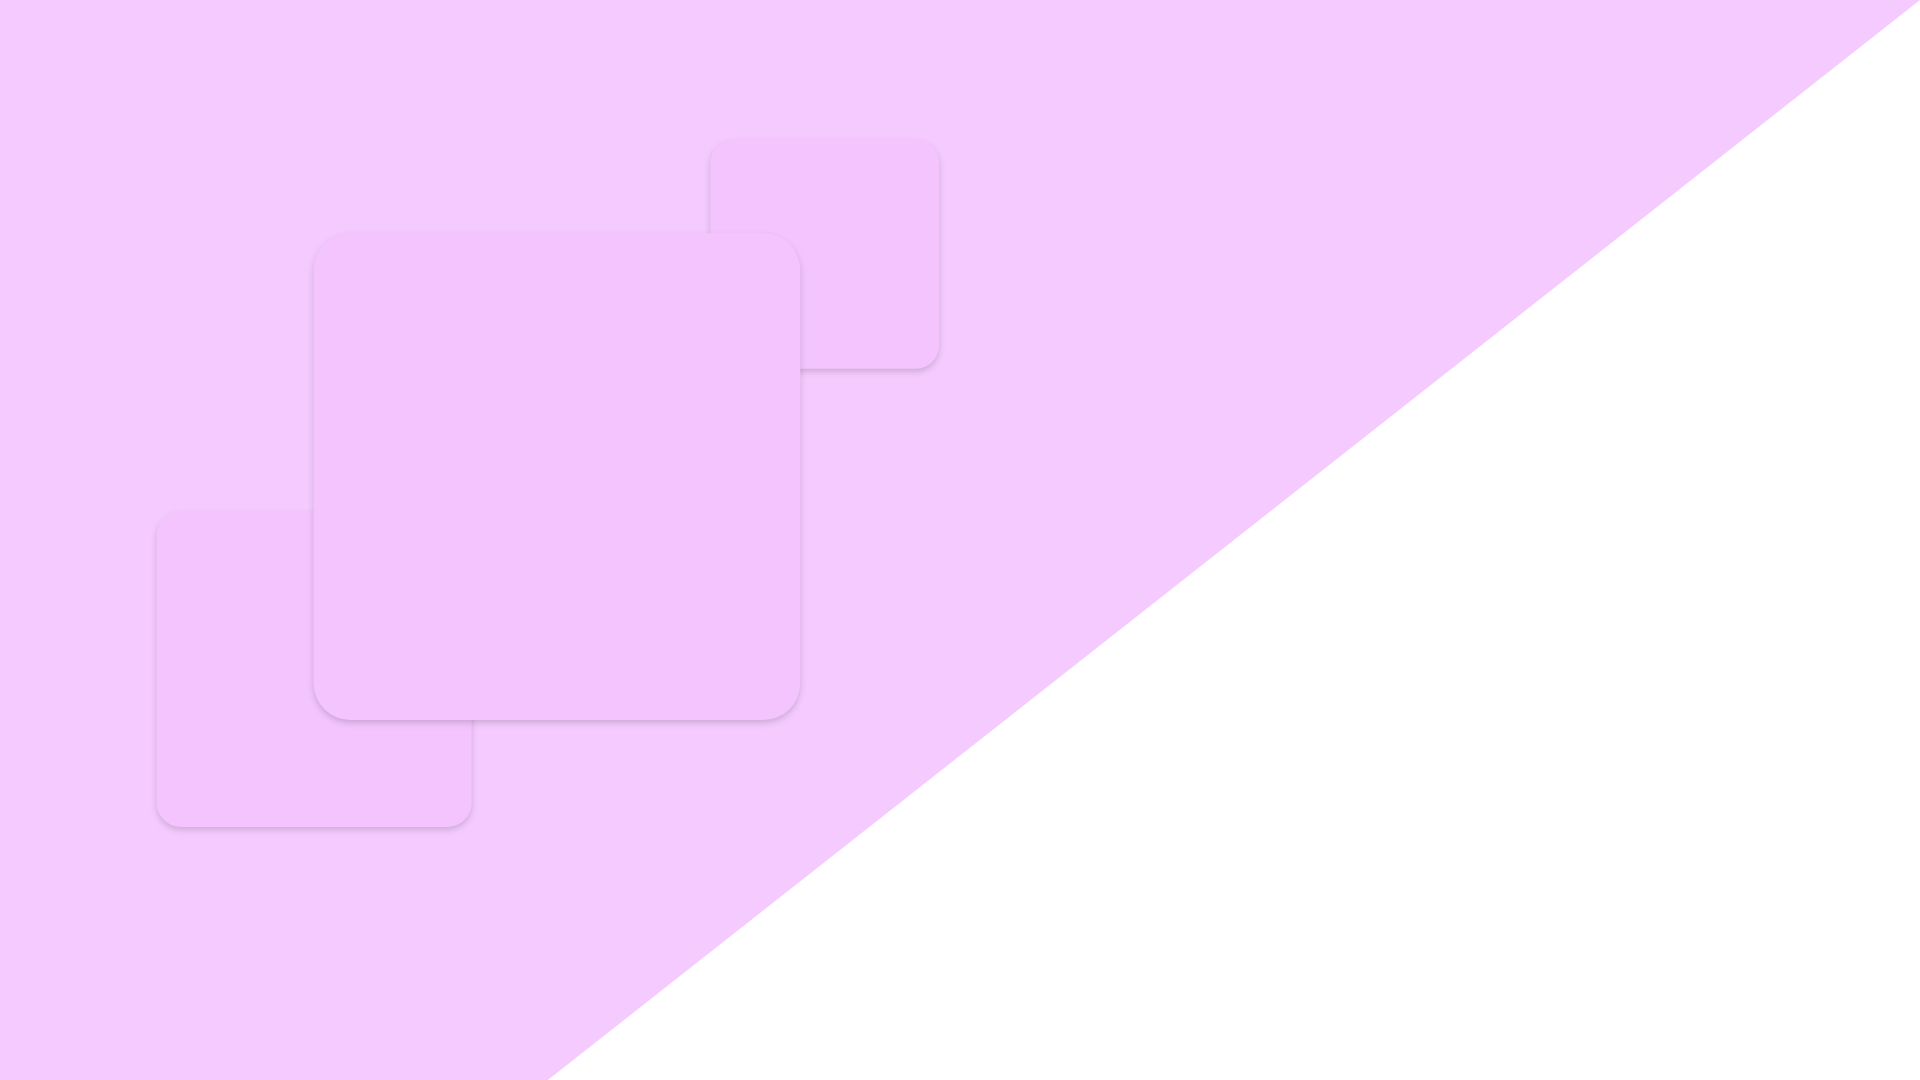
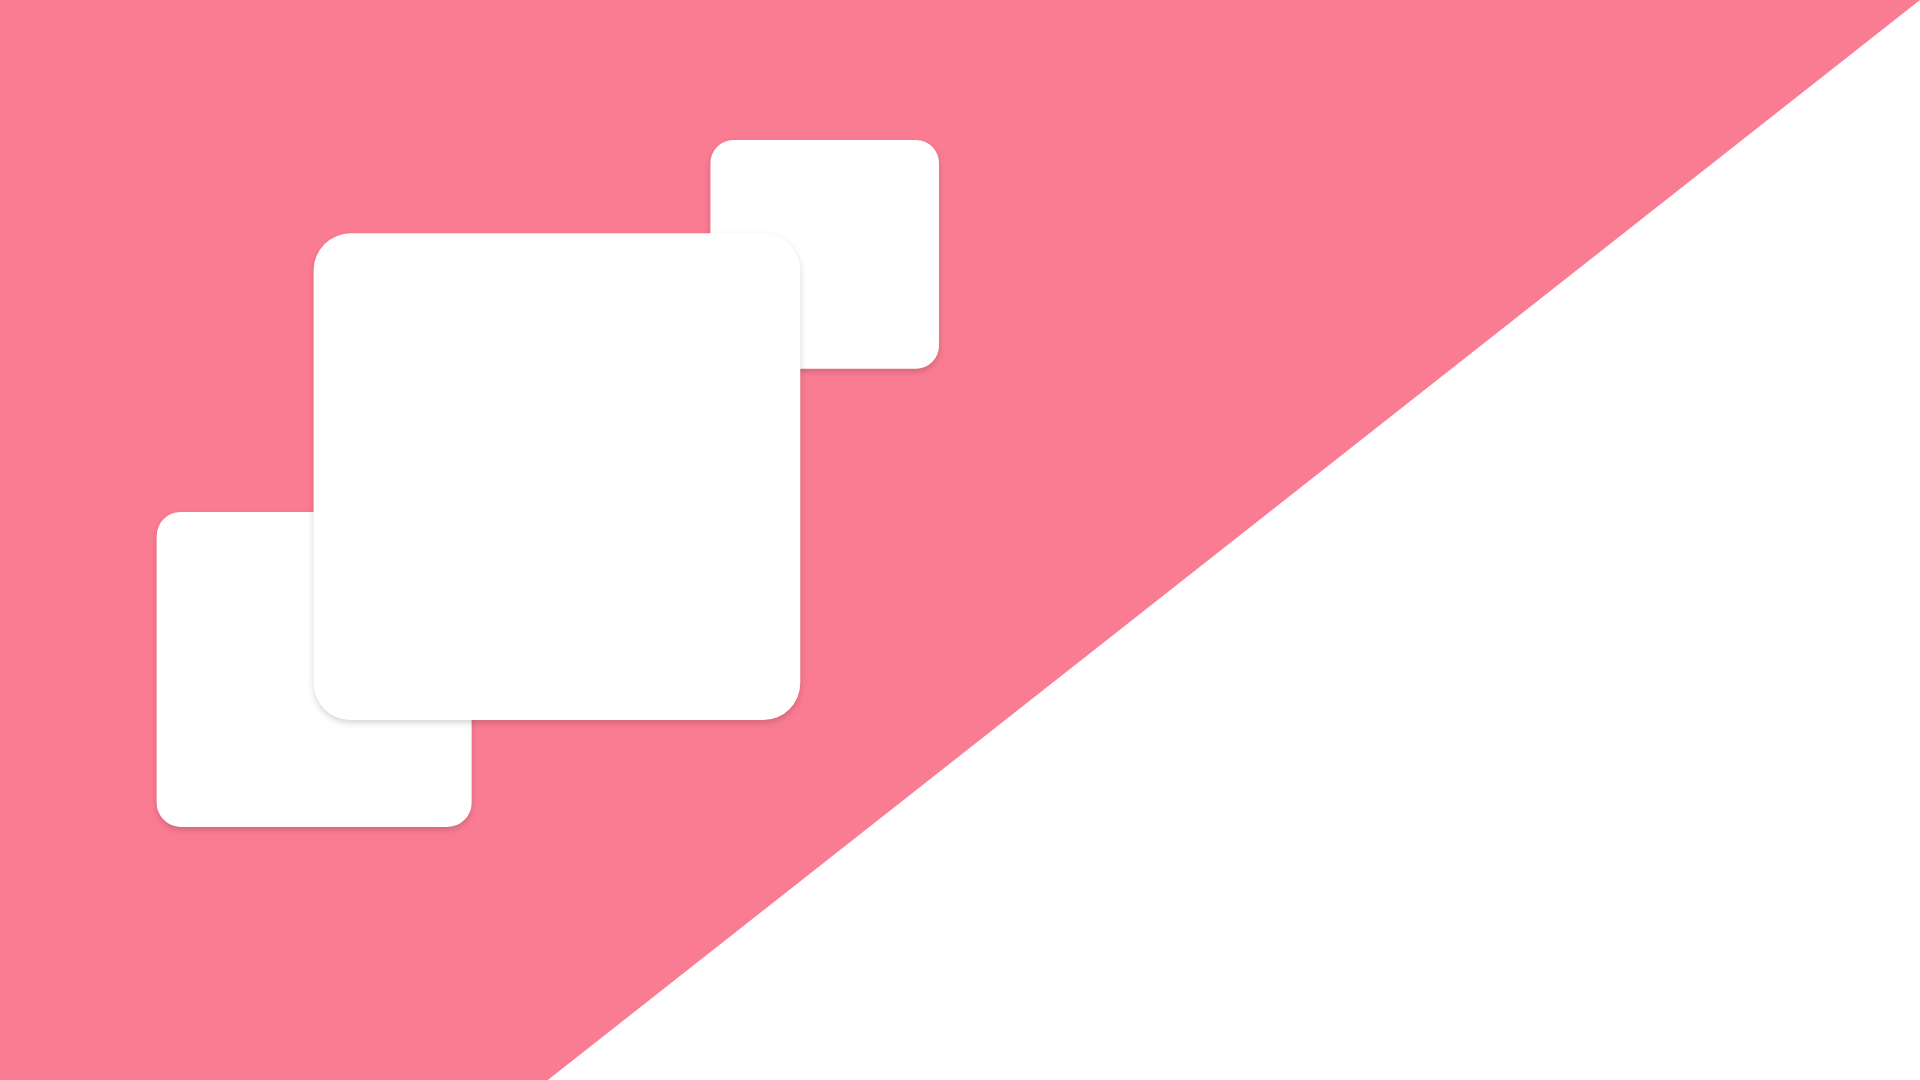
landing page 2.0

diff --git a/css/styles.css b/css/styles.css
@@ -6,7 +6,7 @@ html, body {
 }
 h1{
     font-family:'Titillium Web', sans-serif;
-    color:#F5CBFF;
+    color:#FA7C92;
     font-size:100px;
     position:relative;
 }
@@ -56,7 +56,7 @@ textarea {
 .bottom-right{
   position:fixed;
   bottom: 70px;
-  right: 10%;
+  right: 50px;
 }
 
 .shortcut {
@@ -65,7 +65,7 @@ textarea {
 
 .btn-custom {
   color: #FFFFFF;
-  background-color: #F5CBFF;
+  background-color: #FA7C92;
   border-color: #FFFFFF;
   width: 200px;
   font-family:'Titillium Web', sans-serif;
@@ -77,8 +77,8 @@ textarea {
 .btn-custom.active,
 .open .dropdown-toggle.btn-custom {
   color: #FFFFFF;
-  background-color: #F8DEFF;
-  border-color: #F8DEFF;
+  background-color: #FFD0D8;
+  border-color: #FFD0D8;
 }
 
 .btn-custom:active,
@@ -113,9 +113,9 @@ fieldset[disabled] .btn-custom.active {
 
 
 .btn-custom-outline {
-  color: #F5CBFF;
+  color: #FA7C92;
   background-color: #FFFFFF;
-  border-color: #F5CBFF;
+  border-color: #FA7C92;
   width:300px;
   font-family:'Titillium Web', sans-serif;
 }
@@ -125,9 +125,9 @@ fieldset[disabled] .btn-custom.active {
 .btn-custom-outline:active,
 .btn-custom-outline.active,
 .open .dropdown-toggle.btn-custom-outline {
-  color: #F5CBFF;
-  background-color: #F8DEFF;
-  border-color: #F5CBFF;
+  color: #FFFFFF;
+  background-color: #FFD0D8;
+  border-color: #FA7C92;
 }
 
 .btn-custom-outline:active,

diff --git a/landing_page.html b/landing_page.html
@@ -9,10 +9,9 @@
 
     <!-- Bootstrap -->
     <link rel="stylesheet" href="https://stackpath.bootstrapcdn.com/bootstrap/4.1.3/css/bootstrap.min.css" integrity="sha384-MCw98/SFnGE8fJT3GXwEOngsV7Zt27NXFoaoApmYm81iuXoPkFOJwJ8ERdknLPMO" crossorigin="anonymous">
-    <link href="libs/font-awesome/css/font-awesome.min.css" rel="stylesheet">
     <link href="https://fonts.googleapis.com/css?family=Titillium+Web" rel="stylesheet">
 
-    <link href="css/app.css" rel="stylesheet">
+    <link href="css/styles.css" rel="stylesheet">
     <!-- test -->
     <!-- HTML5 shim and Respond.js for IE8 support of HTML5 elements and media queries -->
     <!-- WARNING: Respond.js doesn't work if you view the page via file:// -->

diff --git a/create_profile.html b/create_profile.html
@@ -1,0 +1,9 @@
+<!DOCTYPE html>
+<html lang="en">
+  <head>
+    <meta charset="utf-8">
+    <meta http-equiv="X-UA-Compatible" content="IE=edge">
+    <meta name="viewport" content="width=device-width, initial-scale=1">
+    <!-- The above 3 meta tags *must* come first in the head; any other head content must come *after* these tags -->
+    <title>Create a Profile</title>
+  </head>
